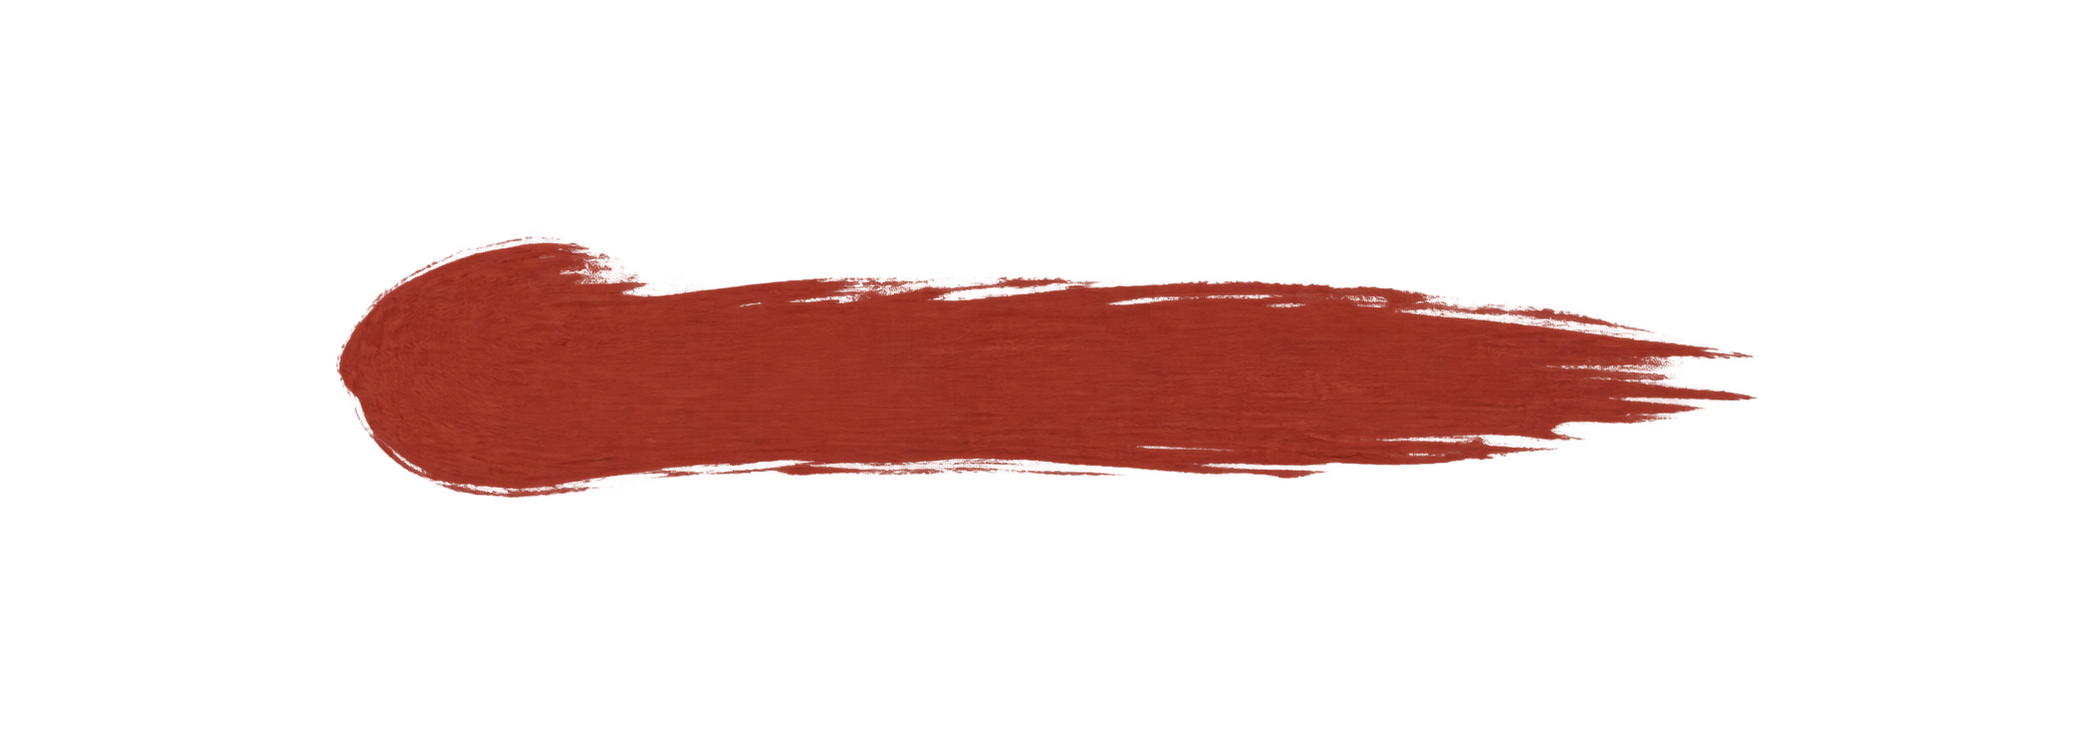
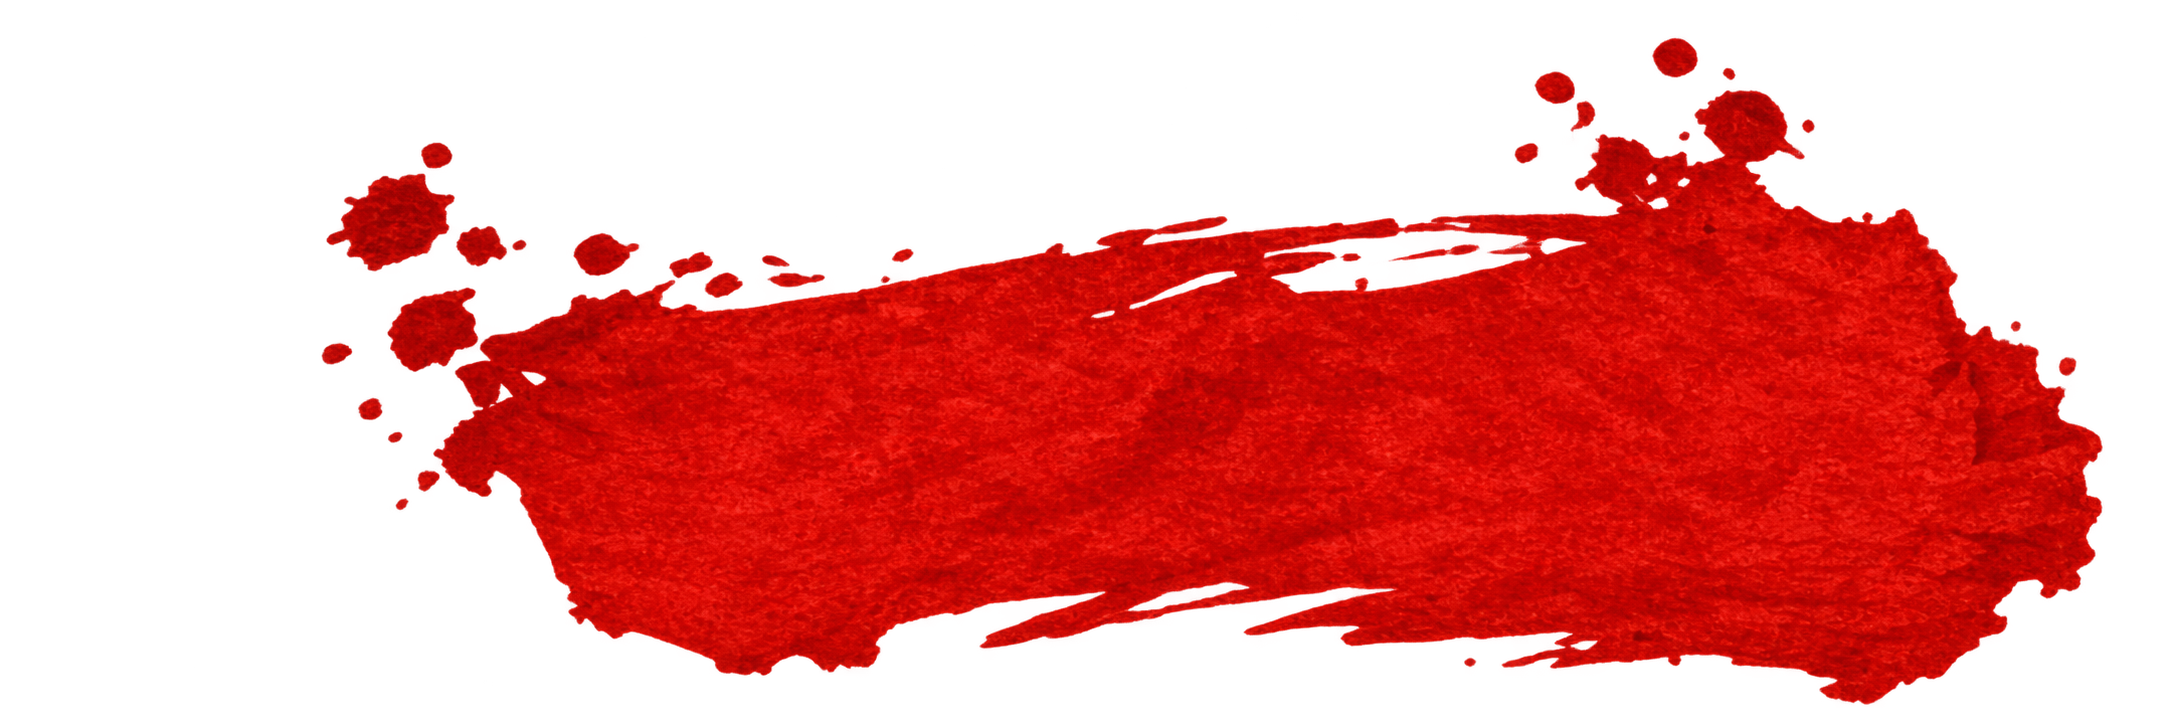
Layer editable erhu title over calligraphy and update brush button

diff --git a/src/assets/erhu/gallery.css b/src/assets/erhu/gallery.css
@@ -245,7 +245,7 @@ footer { font-size: 11px; }
 @media(max-width:1000px) { .video-card { flex-basis: calc((100% - 23px) / 2); } }
 @media(max-width:650px) { .video-card { flex-basis: 100%; } .carousel-controls { gap: 10px; } .carousel-dots button { width: 23px; } }
 
-.hero .brush-button { display: inline-flex; justify-content: center; align-items: center; width: min(330px, 100%); min-height: 76px; padding: 20px 30px; border: 0; border-radius: 0; background: url('/assets/erhu/brush-button.png') center 49% / 150% auto no-repeat; color: #fff8e9; font-size: 15px; letter-spacing: .02em; text-shadow: 0 1px 2px #59211655; }
+.hero .brush-button { display: inline-flex; justify-content: center; align-items: center; width: min(330px, 100%); aspect-ratio: 3; padding: 20px 0 0 66px; border: 0; border-radius: 0; background: url('/assets/erhu/brush-button.png?v=2') center / contain no-repeat; color: #fff8e9; font-size: 15px; letter-spacing: .02em; text-shadow: 0 1px 2px #59211655; }
 .hero .brush-button:hover { background-color: transparent; filter: brightness(1.06); transform: translateY(-2px); }
 
 /* The opening scene keeps its warm paper; the rest follows the main site. */
@@ -293,8 +293,9 @@ body::before { display: none; }
 }
 @media(max-width:650px) { .gallery-section .section-heading, .gallery-tools { width: calc(100% - 40px); } }
 
-.hero .calligraphy-title { width: 100%; max-width: 520px; margin: 0; line-height: 0; }
-.calligraphy-title img { display: block; width: 100%; height: auto; }
+.hero .calligraphy-title { display: grid; place-items: center; width: 100%; max-width: 520px; margin: 0; }
+.calligraphy-title img { grid-area: 1 / 1; display: block; width: 100%; height: auto; }
+.calligraphy-title > span { grid-area: 1 / 1; position: relative; color: var(--ink); }
 
 .repertoire { display: block; }
 .repertoire-heading { display: flex; align-items: center; justify-content: space-between; gap: 24px; margin-bottom: 38px; }
